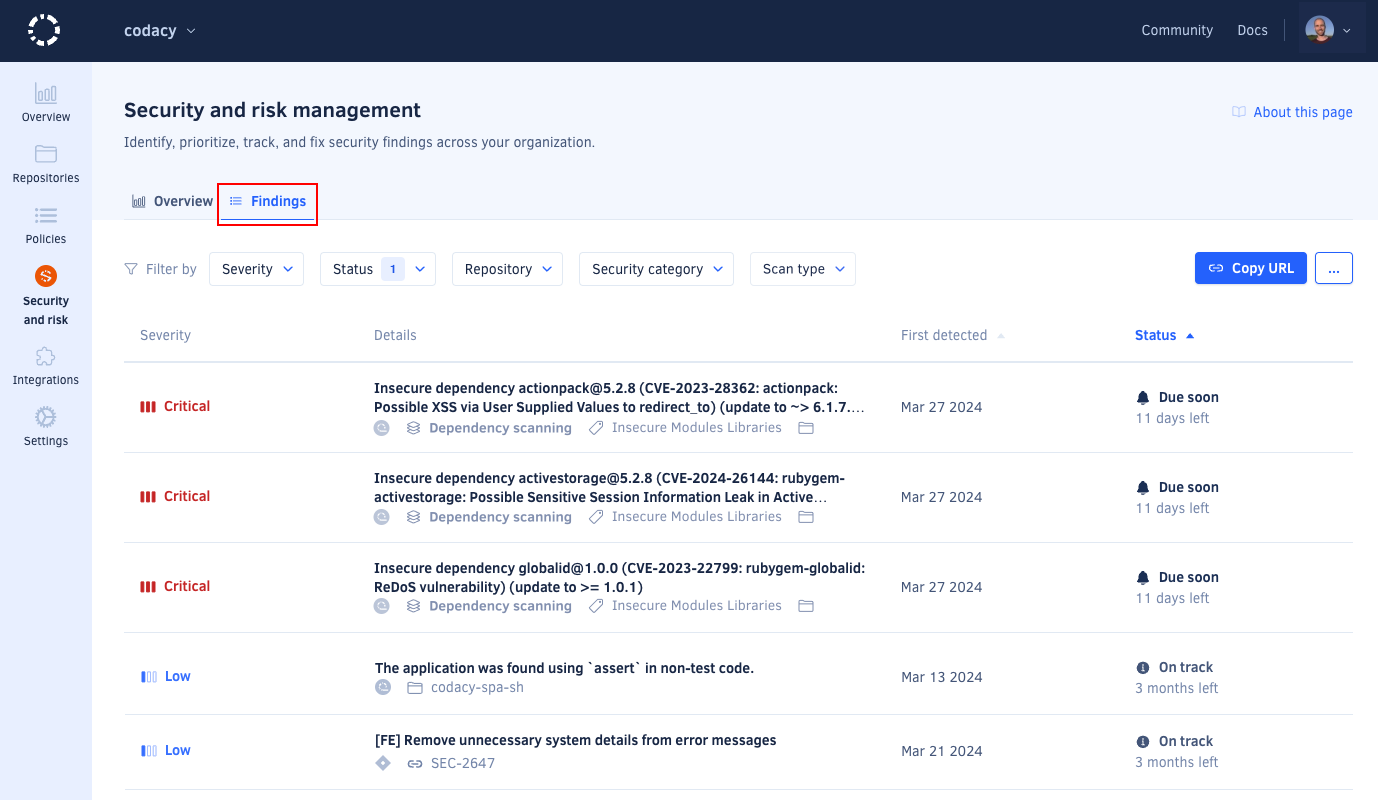
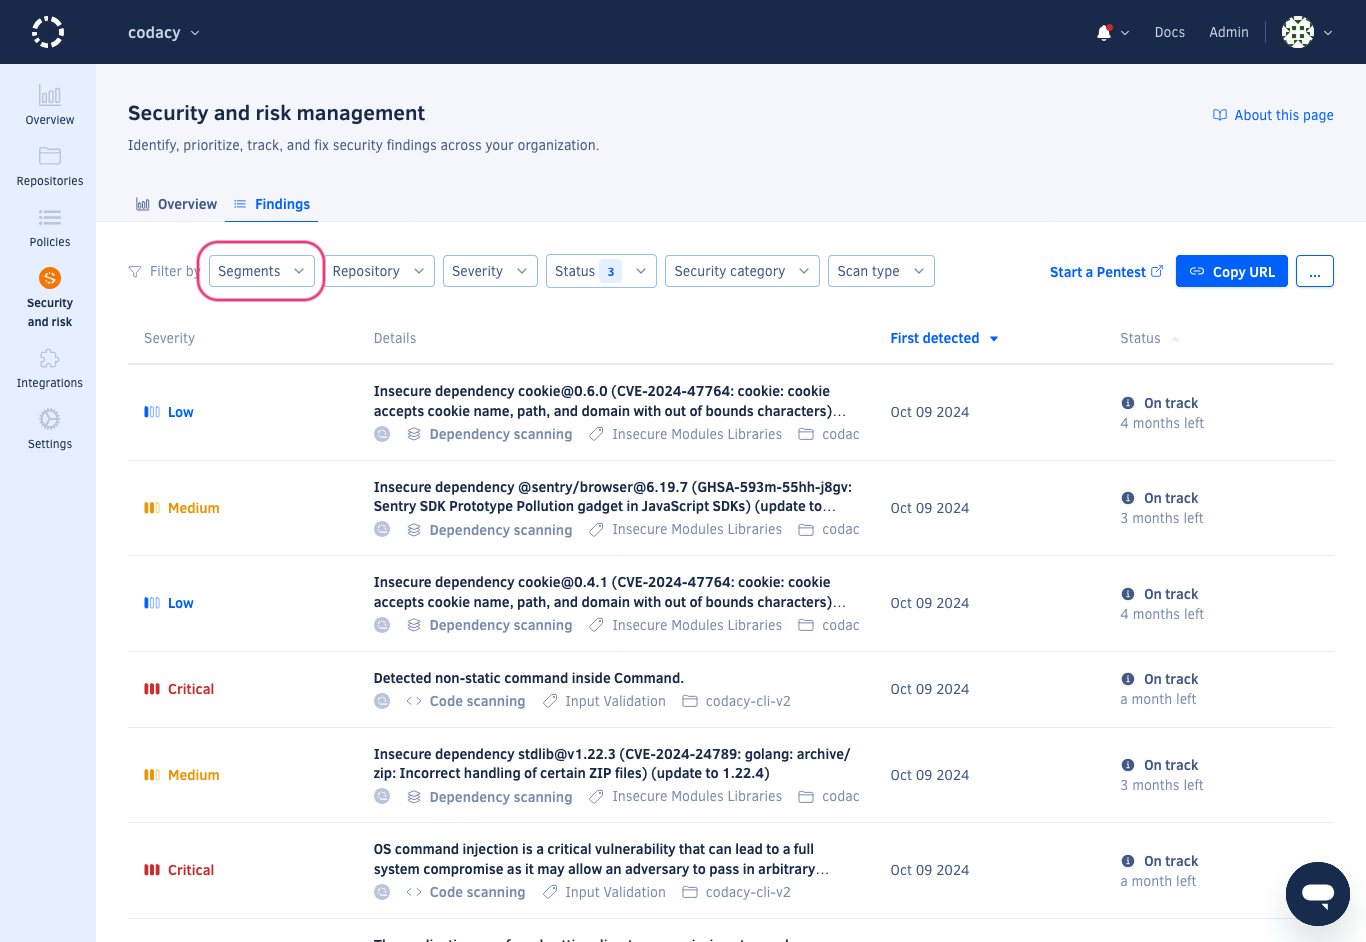
adding and updating images for segments

diff --git a/docs/organizations/segments.md b/docs/organizations/segments.md
@@ -8,10 +8,9 @@ Segments are dimensions that Codacy reads from your provider that organizes repo
 
 ### Enabling Segments {: id="enabling-segments"}
 To enable Segments, an initial sync between your provider and Codacy needs to happen. Once completed, you can use Segments to better locate and organize repositories within Codacy.
-![Repositories list segments sync](images/organization-manage-repos-custom-properties-sync.png)
+![Repositories list segments sync](/images/security-risk-management-segments-overview.png)
 <br><br>
 
-##test
 
 #### GitHub Custom Properties {: id="github-custom-properties"}
 Create, use, and manage custom properties for your repositories directly in GitHub. Custom properties allow you to assign tags or metadata to repositories, making it easier to categorize and filter them.
